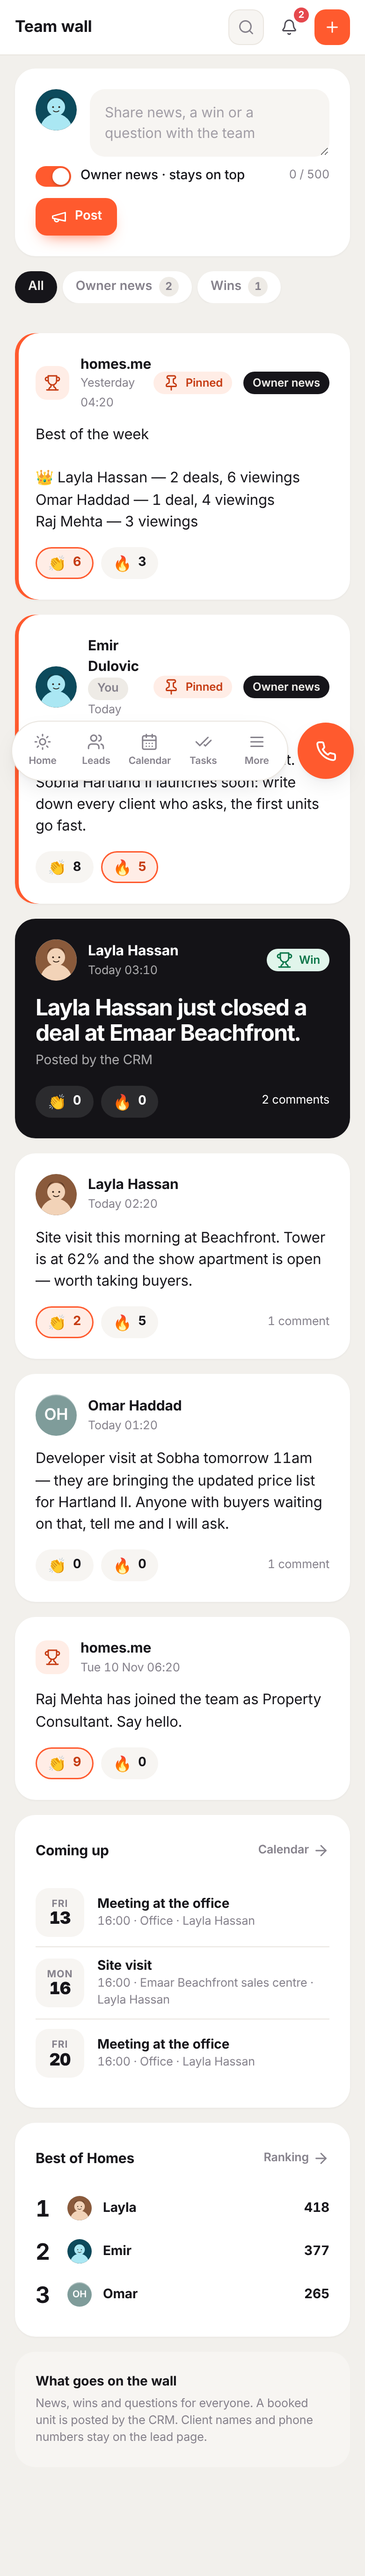
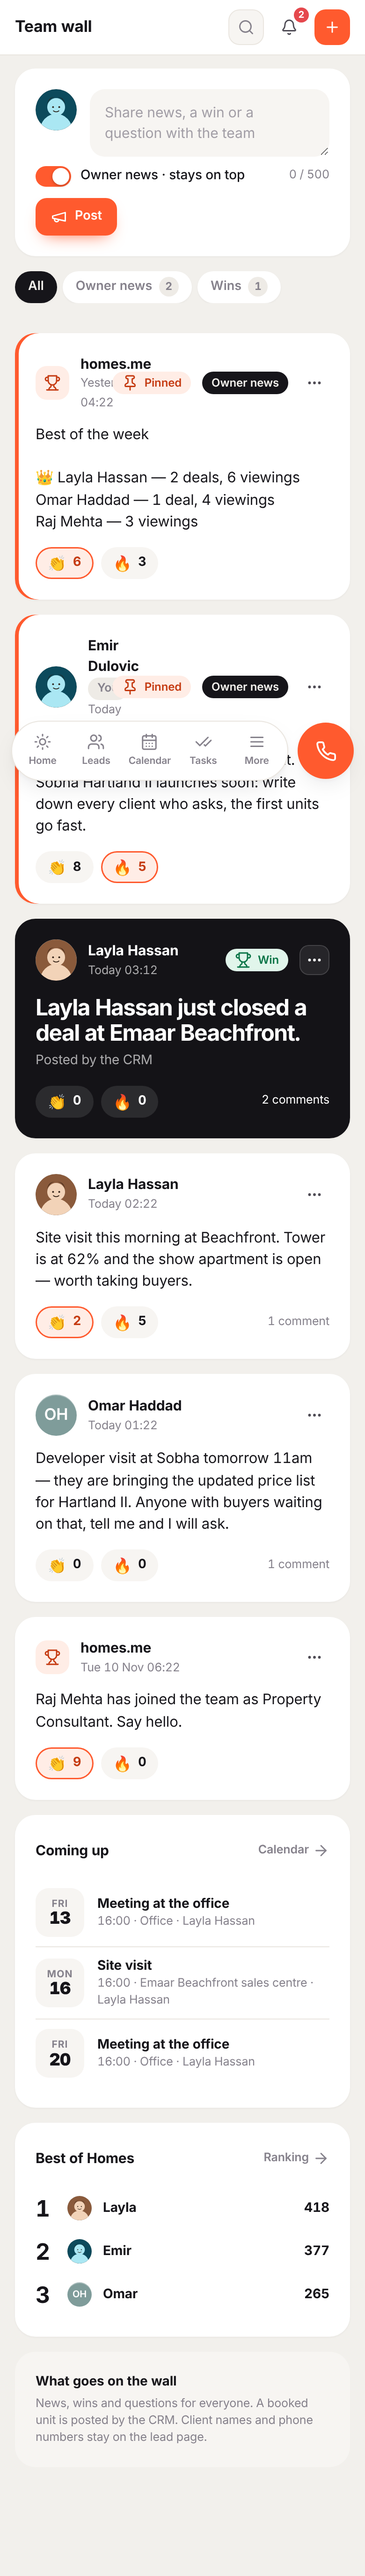
v2 tasks: two tabs, the week strip, and the follow-ups table
design/web/tasks.html. The week as seven cards, each saying how much is
left on it rather than just a date, then the day's list beside the card
that says how much of it is done.

The split between Tasks and Follow-ups is the design's and it is a real
one: a task is something the agent has to do, a follow-up is a promise
made to a client. Same rows in the database, two screens, because they are
two different feelings about being late.

Claude-Session: https://claude.ai/code/session_018559QLdur9h2DBrmwHyccZ

diff --git a/web/src/styles/v2-shell.css b/web/src/styles/v2-shell.css
@@ -1484,11 +1484,11 @@
   /* Six columns cannot shrink to a phone, so the board scrolls sideways with
      the columns at a width a name and a project still fit in — which is what
      every CRM does on a phone. */
-  .v2 .d-kanban {
+  .v2 .p-pipeline .d-kanban {
     grid-auto-columns:minmax(252px,252px);
     overflow-x:auto; padding-bottom:8px; scroll-snap-type:x proximity;
   }
-  .v2 .d-kb-col { scroll-snap-align:start; }
+  .v2 .p-pipeline .d-kb-col { scroll-snap-align:start; }
 
   /* Hover does not exist on a phone, so a Call button that appears on hover
      never appears. It sits in the row instead. */
@@ -1502,7 +1502,7 @@
 
   /* The Lost strip is a row of four things on a desktop and a short stack
      here; the two sample cards are the first thing to go. */
-  .v2 .d-lost-strip { flex-wrap:wrap; row-gap:8px; }
+  .v2 .p-pipeline .d-lost-strip { flex-wrap:wrap; row-gap:8px; }
   .v2 .v2-lost-cards { display:none; }
 }
 
@@ -1516,16 +1516,30 @@
 .v2 .v2-bub-bad { background:var(--red-soft); color:var(--red-ink); }
 /* Which tools the answer came from, under it. */
 .v2 .v2-bub-read { display:block; margin-top:8px; }
+/* The design's bullet list has no space after it, and the model usually
+   writes a closing sentence under one. */
+.v2 .p-homes-ai .d-bub ul + p { margin-top:8px; }
 
+/*
+ * Every rule below names `.p-homes-ai` as well as the element.
+ *
+ * The ported sheet writes `.v2 .p-homes-ai .d-ai`, which outranks a plain
+ * `.v2 .d-ai` whatever the media query says — the first phone layout written
+ * here lost to it silently and left the chat 60px wide with the side cards
+ * sitting on top of it.
+ */
 @media (max-width: 900px) {
   /* The three side cards go under the chat rather than beside it. */
-  .v2 .d-ai { grid-template-columns:minmax(0,1fr); }
+  .v2 .p-homes-ai .d-ai { grid-template-columns:minmax(0,1fr); }
   /* With the cards underneath, a chat the height of the screen would push
      them off the bottom of it. */
-  .v2 .d-ai-chat { height:auto; min-height:0; }
-  .v2 .d-ai-msgs { max-height:52vh; }
-  .v2 .d-msg { max-width:92%; }
-  .v2 .d-ai-head, .v2 .d-ai-msgs, .v2 .d-ai-try, .v2 .d-ai-form { padding-left:16px; padding-right:16px; }
+  .v2 .p-homes-ai .d-ai-chat { height:auto; min-height:0; }
+  .v2 .p-homes-ai .d-ai-msgs { max-height:52vh; }
+  .v2 .p-homes-ai .d-msg { max-width:92%; }
+  .v2 .p-homes-ai .d-ai-head,
+  .v2 .p-homes-ai .d-ai-msgs,
+  .v2 .p-homes-ai .d-ai-try,
+  .v2 .p-homes-ai .d-ai-form { padding-left:16px; padding-right:16px; }
   /* "Enter to ask" is not a thing on a phone keyboard. */
   .v2 .p-homes-ai .d-ai-form .d-row.d-between span:last-child { display:none; }
 }
@@ -1790,10 +1804,14 @@
   /* Transfers: the rail goes under the list and stops sticking. */
   .v2 .p-transfers .d-tgrid, .v2 .v2-tr-owner{ grid-template-columns:minmax(0,1fr); }
   .v2-tr-side{ position:static; }
-  .v2 .d-treq{ flex-wrap:wrap; gap:12px; padding:16px; }
-  .v2 .d-treq .d-who{ flex:1 1 100%; }
-  .v2 .v2-treq-acts{ flex:1 1 auto; flex-direction:row; }
-  .v2 .v2-treq-acts .d-btn{ flex:1; justify-content:center; }
+  /* The request card is avatar · who · deadline · two buttons on one line.
+     On a phone each becomes its own line, in that order. The page class is in
+     the selector because the ported rules carry it and would otherwise win. */
+  .v2 .p-transfers .d-treq{ flex-wrap:wrap; gap:10px 12px; padding:16px; }
+  .v2 .p-transfers .d-treq .d-who{ flex:1 1 100%; order:2; }
+  .v2 .p-transfers .d-deadline{ flex:1 1 100%; order:3; text-align:left; }
+  .v2 .p-transfers .v2-treq-acts{ flex:1 1 100%; order:4; flex-direction:row; }
+  .v2 .p-transfers .v2-treq-acts .d-btn{ flex:1; justify-content:center; }
   .v2 .p-transfers .d-gg{ grid-template-columns:72px 1fr 22px 1fr 22px; }
 
   /* Attendance: the week strip and the month lose their roomiest parts

diff --git a/web/src/v2/Activity.tsx b/web/src/v2/Activity.tsx
@@ -383,6 +383,12 @@ function SignIns({ rows, people, meName, onSignOut }: {
           <tbody>
             {shown.map((row) => {
               const isNew = row.flags.some((flag) => flag.key === 'new_device');
+              /* The design turns the place amber whenever the device is new,
+                 because in its sample both were new at once. Ours colours the
+                 place only when the place is the thing that changed. */
+              const oddPlace = row.flags.some(
+                (flag) => flag.key === 'new_country' || flag.key === 'impossible_travel',
+              );
               const me = row.name === meName;
               return (
                 <tr key={row.id}>
@@ -403,7 +409,7 @@ function SignIns({ rows, people, meName, onSignOut }: {
                       {isNew && <span className="d-chip d-amber">New device</span>}
                     </span>
                   </td>
-                  <td className={isNew ? 'd-t-amber' : undefined}>{row.where ?? 'Not recorded'}</td>
+                  <td className={oddPlace ? 'd-t-amber' : undefined}>{row.where ?? 'Not recorded'}</td>
                   <td className="d-t-sub">{dayAndClock(row.signedInAt)}</td>
                   <td>
                     {row.signedOutAt

diff --git a/web/src/v2/Email.tsx b/web/src/v2/Email.tsx
@@ -30,7 +30,7 @@ interface EmailTemplate {
   template_key: string | null;
   name: string;
   category: string;
-  language: string;
+  language: string | null;
   subject: string;
   body: string;
   preview_text: string | null;
@@ -140,7 +140,12 @@ export function V2Email() {
                 <span className="d-row d-gap-6">
                   <b className="d-truncate d-grow">{one.name}</b>
                   {one.is_system === 1 && <span className="d-vip-tag">BUILT IN</span>}
-                  <span className="d-tiny d-muted">{one.language.toUpperCase()}</span>
+                  {/* The language is on the row because the same email exists in
+                      English and Arabic, and sending the wrong one is a bad first
+                      impression. An older row may not carry one. */}
+                  {one.language && (
+                    <span className="d-tiny d-muted">{one.language.toUpperCase()}</span>
+                  )}
                 </span>
                 <span className="d-sj d-truncate">{one.subject}</span>
                 <span className="d-row d-gap-6">

diff --git a/server/src/v2/desks.integration.test.ts b/server/src/v2/desks.integration.test.ts
@@ -113,9 +113,11 @@ describeWithDb('desks', () => {
       [stage?.pipeline_id, stage?.id, sara.id],
     );
 
-    const made = await (await send('POST', '/api/v2/desks', cookie, {
+    const madeRes = await send('POST', '/api/v2/desks', cookie, {
       name: 'Dubai off-plan', maxOpenLeads: 60, memberIds: [sara.id],
-    })).json() as { id: string };
+    });
+    expect(madeRes.status, await madeRes.clone().text()).toBe(201);
+    const made = await madeRes.json() as { id: string };
 
     const beforeRes = await send('GET', '/api/v2/desks', cookie);
     expect(beforeRes.status, await beforeRes.clone().text()).toBe(200);

diff --git a/docs/progress.md b/docs/progress.md
@@ -83,3 +83,14 @@ Newest last. Nothing here is live — it is all on the `v2` branch.
   Only a screenshot catches that.
 - **Failed.** Nothing. It found three already-shipped misses: `d-card-t` on
   Add Lead, `d-gap-12` twice, and `d-lt`.
+
+## Tasks and follow-ups · 13 Nov
+
+- **Done.** Two tabs, the week as seven cards each saying how much is left on
+  it, the day's list beside the "left today" card, and the follow-ups table
+  with its four time tabs. The split between the two tabs is the design's and
+  it is a real one: a task is something the agent has to do, a follow-up is a
+  promise made to a client, and being late with one is a different kind of
+  late.
+- **Not done.** Changing or deleting a task from the row menu.
+- **Failed.** Nothing.
